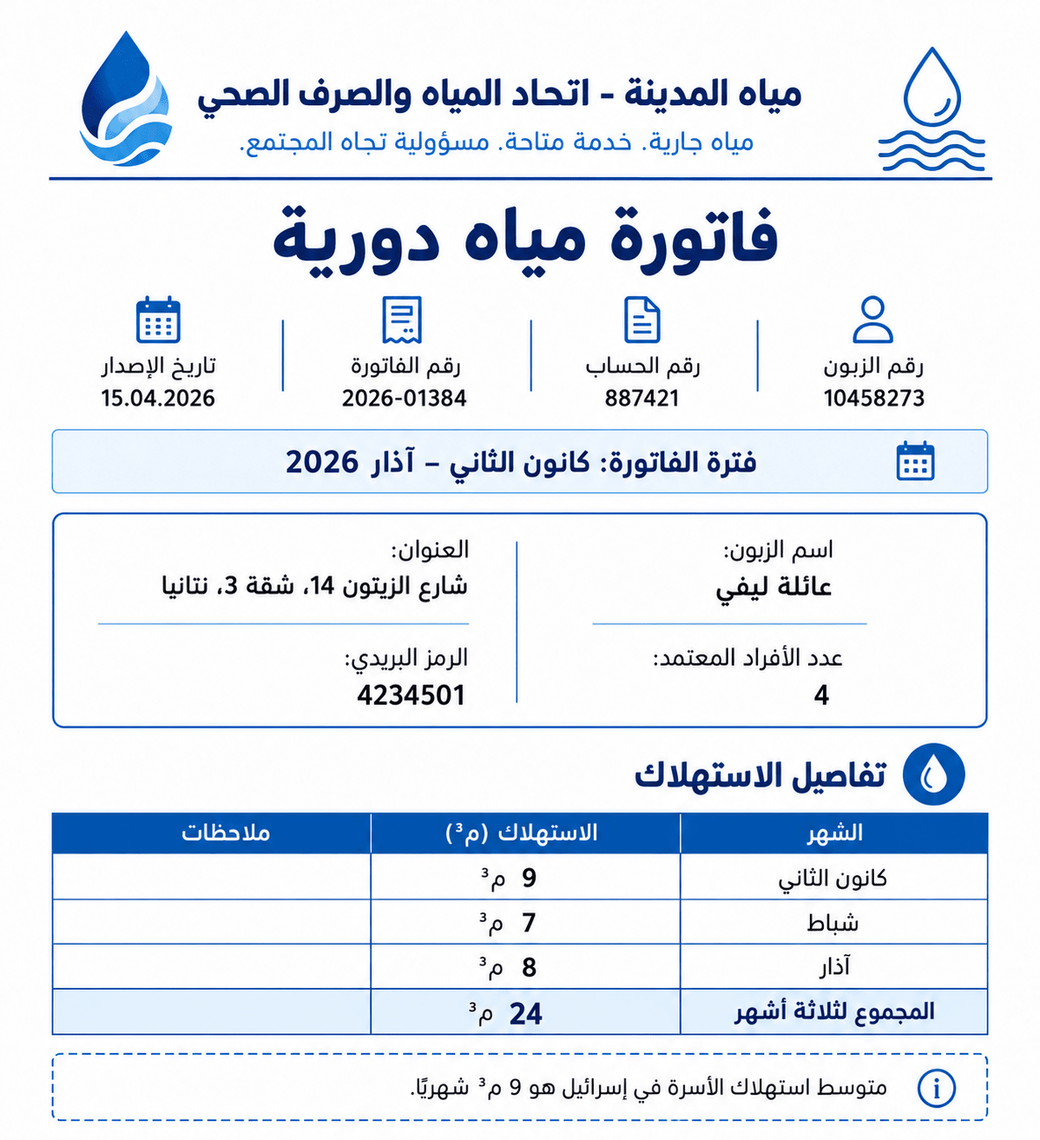
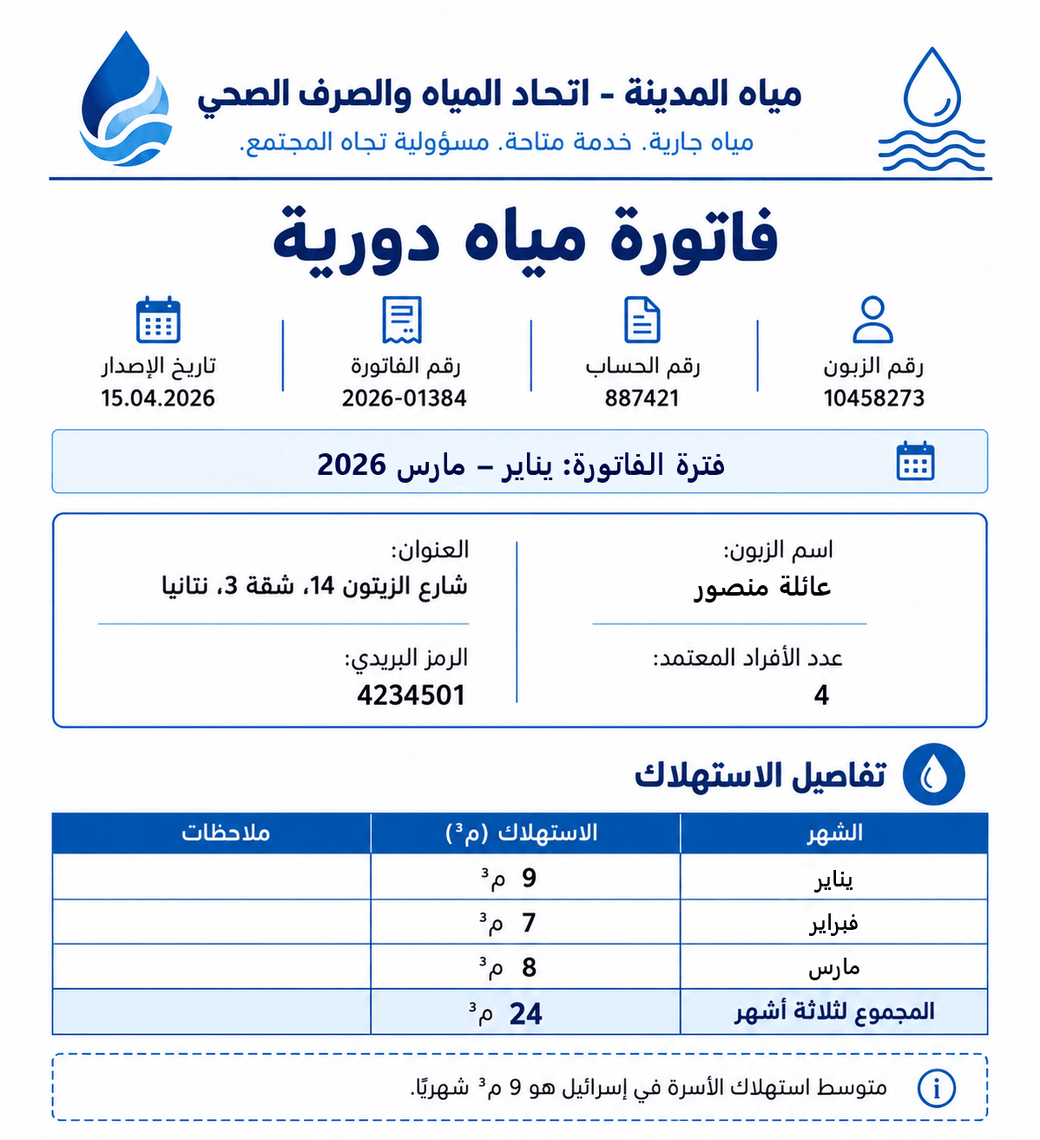
monday 12.11.26: one Kata pattern per question (01-006 q1, 07-001 q2), 01-011 sentences, bill re-lettered; ?v=20261112
- 01-006 q1: a right answer reports the slide's 4 pairs for either right order (مل/سم³ swapped);
  metadata correctAnswers back to the 4 slide pairs (Kata had both alternatives glued into one 6-pair pattern).
- 07-001 q2: a right field reports Kata's form (litres 9000 -> 9,000; month كانون الثاني -> يناير, also
  accepted now); the 4th step "الاستهلاك باللترات (תשובה נוספת)" dropped (Hebrew in the Arabic catalogue).
- 07 bill image: عائلة منصور and يناير/فبراير/مارس, as the question, hotspots, alt text and metadata say
  (MEDIA-CHANGES §11).
- 01-011 q1: questionText and informationToBot carry the three on-screen sentences.
- _test/verify-report.js §6 drives both call sites (fails on the old main.js); kata-patterns.json holds the
  proposed 006 pattern. Kata PATCH waits for נמרוד.

Changed region(s): [[0.278, 0.3747, 0.7412, 0.4372], [0.7412, 0.7494, 0.8648, 0.8743], [0.6795, 0.4996, 0.803, 0.5308]]

diff --git a/_test/verify-report.js b/_test/verify-report.js
@@ -105,7 +105,8 @@ ok('stub', '__reset names no donor unit', !/volume-solid|body-matter|ratio-01|ma
 /* Kata's correctXapiResponsesPattern per questionId (retrieve of 2026-10-25), and the Kata-side errors it still carries */
 const KATA_PATTERNS = fs.existsSync(path.join(REPO, '_test', 'kata-patterns.json')) ? readJson(path.join(REPO, '_test', 'kata-patterns.json')) : {};
 const KATA_KNOWN = {
-  '006/q1': 'Kata lists both alternatives in ONE 6-pair pattern string (01-006, reported 2026-10-25)'
+  /* '006/q1' was here until 2026-11-12: Kata glued both alternatives into ONE 6-pair pattern. The page now reports the slide's
+     4 pairs for either right order (monday 12.11.26); kata-patterns.json carries that pattern — the Kata PATCH waits for נמרוד. */
   /* '004/q1' was here until 2026-10-29: Kata had סמ"ק/מ"ק swapped, 3000 without the comma and mixed ״/" stepIds.
      Fixed by a questions-only PATCH of item 03-004 (נמרוד approved, monday item 13378313536); kata-patterns.json carries the corrected pattern. */
 };
@@ -618,6 +619,50 @@ if (JSDOM) for (const c of Object.keys(SCORE_CONTRACT)) {
     }
     ok(c, 'gate ' + k + '/' + sc.N + ': no console.error', rg.errors.length === 0, rg.errors.slice(0, 2).join(' | '));
   }
+}
+
+/* ══════════════════ 6. one Kata pattern per question (monday 12.11.26) ══════════════════
+   Kata builds ONE correctXapiResponsesPattern from correctAnswers, so a question with two right forms must report one
+   canonical string. 01-006 q1: perfume/die take מ״ל or סמ״ק — a right answer reports the slide's pairs. 07-001 q2: litres
+   9000 or 9,000 (ar: month كانون الثاني or يناير) — a right field reports Kata's form. Driven through the real call sites. */
+section('6. one Kata pattern per question');
+const kataPat = (c, item, k) => { const q = META[c].subContent.find((it) => it.id.replace(/\/$/, '').endsWith('-' + item)).questions.find((x) => x.questionId.endsWith('/' + k)); return KATA_PATTERNS[q.questionId] || []; };
+/* each run is a fresh page that answers one question, so the last `answered` / `answered.last` is that question's */
+const answeredOf = (rec) => { const a = rec.sent.filter((s) => s.verb === 'answered' || s.verb === 'answered.last').pop(); return a && a.result && a.result.response; };
+if (JSDOM) {
+  const swapped = { 's7-d-cc': 's7-t-perfume', 's7-d-ml': 's7-t-dice', 's7-d-l': 's7-t-bucket', 's7-d-m3': 's7-t-truck' };
+  const slide = { 's7-d-ml': 's7-t-perfume', 's7-d-cc': 's7-t-dice', 's7-d-l': 's7-t-bucket', 's7-d-m3': 's7-t-truck' };
+  for (const [tag, place] of [['slide order', slide], ['swapped מ״ל/סמ״ק', swapped]]) {
+    const r = loadPart('01'); const w = r.w; const rec = scRecorder(w, '01');
+    w.goTo(7); w.eval('s7Done = false; s7Attempts = 0; Object.assign(s7Place, ' + JSON.stringify(place) + ')'); w.s7Check();
+    const resp = answeredOf(rec, '006', 'q1'), pat = kataPat('01', '006', 'q1');
+    ok('01', '006/q1 right answer (' + tag + ') = the one Kata pattern', pat.length === 1 && resp === pat[0], resp + ' vs ' + JSON.stringify(pat));
+    ok('01', '006/q1 (' + tag + '): no console.error', r.errors.length === 0, r.errors.slice(0, 2).join(' | '));
+  }
+  { /* a wrong answer still reports what was placed */
+    const r = loadPart('01'); const w = r.w; const rec = scRecorder(w, '01');
+    w.goTo(7); w.eval('s7Done = false; s7Attempts = 0; Object.assign(s7Place, ' + JSON.stringify({ 's7-d-l': 's7-t-perfume', 's7-d-cc': 's7-t-dice', 's7-d-ml': 's7-t-bucket', 's7-d-m3': 's7-t-truck' }) + ')'); w.s7Check();
+    const resp = answeredOf(rec, '006', 'q1') || '';
+    ok('01', '006/q1 a wrong answer reports the placed pairs', resp.includes(w.eval("S7_LABEL['s7-d-l']") + '[.]' + w.eval("S7_NAME['s7-t-perfume']")), resp);
+  }
+  const month = w0 => w0.eval('S3_CORRECT_TEXT.m');
+  const s3Run = (vals) => {
+    const r = loadPart('07'); const w = r.w; const rec = scRecorder(w, '07');
+    w.goTo(3); w.eval("s3Done = false; s3Attempts = 0; s3LastWrong = null");
+    const v = vals(w); for (const k of ['m', 'q', 'l']) w.eval('s3In')(k).value = v[k];
+    w.s3Check();
+    return { r, w, resp: answeredOf(rec, '001', 'q2') };
+  };
+  const pat07 = kataPat('07', '001', 'q2');
+  const cases = [['9,000', (w) => ({ m: month(w), q: '9', l: '9,000' })], ['9000', (w) => ({ m: month(w), q: '9', l: '9000' })]];
+  if (/ar-/.test(UNIT_SLUG)) cases.push(['كانون الثاني', () => ({ m: 'كانون الثاني', q: '9', l: '9000' })]);
+  for (const [tag, vals] of cases) {
+    const { r, resp } = s3Run(vals);
+    ok('07', '001/q2 right answer (' + tag + ') = the one Kata pattern', pat07.length === 1 && resp === pat07[0], resp + ' vs ' + JSON.stringify(pat07));
+    ok('07', '001/q2 (' + tag + '): no console.error', r.errors.length === 0, r.errors.slice(0, 2).join(' | '));
+  }
+  { const { resp } = s3Run((w) => ({ m: month(w), q: '9', l: '900' }));
+    ok('07', '001/q2 a wrong litres value reports the typed text', /\[\.\]900$/.test(resp || ''), resp); }
 }
 
 /* ═══════════════════════════════ summary ═══════════════════════════════ */

diff --git a/methodica-ar-science-mass-liquid-02-01/index.html b/methodica-ar-science-mass-liquid-02-01/index.html
@@ -4,9 +4,9 @@
 <meta charset="UTF-8">
 <meta name="viewport" content="width=device-width, initial-scale=1.0">
 <title>وحدات الحجم واستخداماتها — methodica-ar-science-mass-liquid-02-01</title>
-<link rel="stylesheet" href="css/style.css?v=20261109b">
-<link rel="stylesheet" href="css/motion.css?v=20261109b">
-<link rel="stylesheet" href="../unit-css/25-report.css?v=20261109b">
+<link rel="stylesheet" href="css/style.css?v=20261112">
+<link rel="stylesheet" href="css/motion.css?v=20261112">
+<link rel="stylesheet" href="../unit-css/25-report.css?v=20261112">
 </head>
 <body>
 <!-- ═══ Boot cover (ADDING-REPORTING-AND-RESUME.md §8.11) ═══
@@ -1350,12 +1350,12 @@
 <!-- 720 platform layer (reporting / resume): shared files first, then the part's own scripts
      (js/motion.js before js/main.js, as before), 90-boot last. Same ?v= in every part
      (guide §3.4); 90-boot.js is a separate tag on purpose (§3.2). -->
-<script src="../unit-js/10-identity.js?v=20261109b"></script>
-<script src="../unit-js/20-xapi.js?v=20261109b"></script>
-<script src="../unit-js/25-report.js?v=20261109b"></script>
-<script src="../unit-js/40-resume.js?v=20261109b"></script>
-<script src="../unit-js/50-loader.js?v=20261109b"></script>
-<script src="js/motion.js?v=20261109b"></script>
-<script src="js/main.js?v=20261109b"></script>
-<script src="../unit-js/90-boot.js?v=20261109b"></script></body>
+<script src="../unit-js/10-identity.js?v=20261112"></script>
+<script src="../unit-js/20-xapi.js?v=20261112"></script>
+<script src="../unit-js/25-report.js?v=20261112"></script>
+<script src="../unit-js/40-resume.js?v=20261112"></script>
+<script src="../unit-js/50-loader.js?v=20261112"></script>
+<script src="js/motion.js?v=20261112"></script>
+<script src="js/main.js?v=20261112"></script>
+<script src="../unit-js/90-boot.js?v=20261112"></script></body>
 </html>

diff --git a/methodica-ar-science-mass-liquid-02-07/js/main.js b/methodica-ar-science-mass-liquid-02-07/js/main.js
@@ -558,8 +558,10 @@ function s3Num(raw) {
 }
 /* The month: trimmed, inner spaces collapsed, Hebrew geresh/gershayim ignored. */
 const s3Word = raw => raw.trim().replace(/\s+/g, ' ').replace(/["\u05f3\u05f4']/g, '');
+/* The Levantine name of January is right too: the bill used to print كانون الثاني (monday 12.11.26, AR 07-001). */
+const S3_MONTH_ALSO = ['كانون الثاني'];
 function s3FieldRight(k) {
-  if (k === 'm') return s3Word(s3In(k).value) === S3Q.correct.m;
+  if (k === 'm') { const w = s3Word(s3In(k).value); return w === S3Q.correct.m || S3_MONTH_ALSO.includes(w); }
   return s3Num(s3In(k).value) === S3Q.correct[k];
 }
 /* Retry-gate signature: the month as a word, the numbers parsed (raw text while one does not parse). */
@@ -619,9 +621,11 @@ function s3Check() {
   s3Attempts++;
   const right = {};
   S3_KEYS.forEach(k => { right[k] = s3FieldRight(k); });
-  /* xAPI: performance — after the field loop (right is final only then); the raw typed text of the three fields, in the metadata steps order (month, m³, litres) (guide §6.3). */
+  /* xAPI: performance — after the field loop (right is final only then); the three fields in the metadata steps order (month, m³, litres) (guide §6.3).
+     A right field reports Kata's form (S3_CORRECT_TEXT: 9000 and 9,000 both → "9,000", كانون الثاني → "يناير", guide §6.3c
+     rule 6) — Kata holds ONE 3-step pattern (monday 12.11.26, 07-001 q2). A wrong field reports the raw typed text. */
   xapiAnswered('001', 'q2', S3_KEYS.every(k => right[k]), S3_KEYS.every(k => right[k]) || s3Attempts >= S3Q.maxAttempts,
-    { steps: S3_KEYS.map(k => s3In(k).value) });
+    { steps: S3_KEYS.map(k => right[k] ? S3_CORRECT_TEXT[k] : s3In(k).value) });
   if (S3_KEYS.every(k => right[k])) { s3Finish('correct'); return; }
   if (s3Attempts >= S3Q.maxAttempts) {
     s3Answer = {};

diff --git a/methodica-ar-science-mass-liquid-02-02/index.html b/methodica-ar-science-mass-liquid-02-02/index.html
@@ -4,9 +4,9 @@
 <meta charset="UTF-8">
 <meta name="viewport" content="width=device-width, initial-scale=1.0">
 <title>تدريب معياري — methodica-ar-science-mass-liquid-02-02</title>
-<link rel="stylesheet" href="css/style.css?v=20261109b">
-<link rel="stylesheet" href="css/motion.css?v=20261109b">
-<link rel="stylesheet" href="../unit-css/25-report.css?v=20261109b">
+<link rel="stylesheet" href="css/style.css?v=20261112">
+<link rel="stylesheet" href="css/motion.css?v=20261112">
+<link rel="stylesheet" href="../unit-css/25-report.css?v=20261112">
 </head>
 <body>
 <!-- ═══ Boot cover (ADDING-REPORTING-AND-RESUME.md §8.11) ═══
@@ -755,12 +755,12 @@
 <!-- 720 platform layer (reporting / resume): shared files first, then the part's own scripts
      (js/motion.js before js/main.js, as before), 90-boot last. Same ?v= in every part
      (guide §3.4); 90-boot.js is a separate tag on purpose (§3.2). -->
-<script src="../unit-js/10-identity.js?v=20261109b"></script>
-<script src="../unit-js/20-xapi.js?v=20261109b"></script>
-<script src="../unit-js/25-report.js?v=20261109b"></script>
-<script src="../unit-js/40-resume.js?v=20261109b"></script>
-<script src="../unit-js/50-loader.js?v=20261109b"></script>
-<script src="js/motion.js?v=20261109b"></script>
-<script src="js/main.js?v=20261109b"></script>
-<script src="../unit-js/90-boot.js?v=20261109b"></script></body>
+<script src="../unit-js/10-identity.js?v=20261112"></script>
+<script src="../unit-js/20-xapi.js?v=20261112"></script>
+<script src="../unit-js/25-report.js?v=20261112"></script>
+<script src="../unit-js/40-resume.js?v=20261112"></script>
+<script src="../unit-js/50-loader.js?v=20261112"></script>
+<script src="js/motion.js?v=20261112"></script>
+<script src="js/main.js?v=20261112"></script>
+<script src="../unit-js/90-boot.js?v=20261112"></script></body>
 </html>

diff --git a/methodica-ar-science-mass-liquid-02-03/index.html b/methodica-ar-science-mass-liquid-02-03/index.html
@@ -4,9 +4,9 @@
 <meta charset="UTF-8">
 <meta name="viewport" content="width=device-width, initial-scale=1.0">
 <title>تدريب أساسي — methodica-ar-science-mass-liquid-02-03</title>
-<link rel="stylesheet" href="css/style.css?v=20261109b">
-<link rel="stylesheet" href="css/motion.css?v=20261109b">
-<link rel="stylesheet" href="../unit-css/25-report.css?v=20261109b">
+<link rel="stylesheet" href="css/style.css?v=20261112">
+<link rel="stylesheet" href="css/motion.css?v=20261112">
+<link rel="stylesheet" href="../unit-css/25-report.css?v=20261112">
 </head>
 <body>
 <!-- ═══ Boot cover (ADDING-REPORTING-AND-RESUME.md §8.11) ═══
@@ -615,12 +615,12 @@
 <!-- 720 platform layer (reporting / resume): shared files first, then the part's own scripts
      (js/motion.js before js/main.js, as before), 90-boot last. Same ?v= in every part
      (guide §3.4); 90-boot.js is a separate tag on purpose (§3.2). -->
-<script src="../unit-js/10-identity.js?v=20261109b"></script>
-<script src="../unit-js/20-xapi.js?v=20261109b"></script>
-<script src="../unit-js/25-report.js?v=20261109b"></script>
-<script src="../unit-js/40-resume.js?v=20261109b"></script>
-<script src="../unit-js/50-loader.js?v=20261109b"></script>
-<script src="js/motion.js?v=20261109b"></script>
-<script src="js/main.js?v=20261109b"></script>
-<script src="../unit-js/90-boot.js?v=20261109b"></script></body>
+<script src="../unit-js/10-identity.js?v=20261112"></script>
+<script src="../unit-js/20-xapi.js?v=20261112"></script>
+<script src="../unit-js/25-report.js?v=20261112"></script>
+<script src="../unit-js/40-resume.js?v=20261112"></script>
+<script src="../unit-js/50-loader.js?v=20261112"></script>
+<script src="js/motion.js?v=20261112"></script>
+<script src="js/main.js?v=20261112"></script>
+<script src="../unit-js/90-boot.js?v=20261112"></script></body>
 </html>

diff --git a/methodica-ar-science-mass-liquid-02-05/index.html b/methodica-ar-science-mass-liquid-02-05/index.html
@@ -4,9 +4,9 @@
 <meta charset="UTF-8">
 <meta name="viewport" content="width=device-width, initial-scale=1.0">
 <title>تدريب متقدم — methodica-ar-science-mass-liquid-02-05</title>
-<link rel="stylesheet" href="css/style.css?v=20261109b">
-<link rel="stylesheet" href="css/motion.css?v=20261109b">
-<link rel="stylesheet" href="../unit-css/25-report.css?v=20261109b">
+<link rel="stylesheet" href="css/style.css?v=20261112">
+<link rel="stylesheet" href="css/motion.css?v=20261112">
+<link rel="stylesheet" href="../unit-css/25-report.css?v=20261112">
 </head>
 <body>
 <!-- ═══ Boot cover (ADDING-REPORTING-AND-RESUME.md §8.11) ═══
@@ -638,12 +638,12 @@
 <!-- 720 platform layer (reporting / resume): shared files first, then the part's own scripts
      (js/motion.js before js/main.js, as before), 90-boot last. Same ?v= in every part
      (guide §3.4); 90-boot.js is a separate tag on purpose (§3.2). -->
-<script src="../unit-js/10-identity.js?v=20261109b"></script>
-<script src="../unit-js/20-xapi.js?v=20261109b"></script>
-<script src="../unit-js/25-report.js?v=20261109b"></script>
-<script src="../unit-js/40-resume.js?v=20261109b"></script>
-<script src="../unit-js/50-loader.js?v=20261109b"></script>
-<script src="js/motion.js?v=20261109b"></script>
-<script src="js/main.js?v=20261109b"></script>
-<script src="../unit-js/90-boot.js?v=20261109b"></script></body>
+<script src="../unit-js/10-identity.js?v=20261112"></script>
+<script src="../unit-js/20-xapi.js?v=20261112"></script>
+<script src="../unit-js/25-report.js?v=20261112"></script>
+<script src="../unit-js/40-resume.js?v=20261112"></script>
+<script src="../unit-js/50-loader.js?v=20261112"></script>
+<script src="js/motion.js?v=20261112"></script>
+<script src="js/main.js?v=20261112"></script>
+<script src="../unit-js/90-boot.js?v=20261112"></script></body>
 </html>

diff --git a/methodica-ar-science-mass-liquid-02-06/index.html b/methodica-ar-science-mass-liquid-02-06/index.html
@@ -4,9 +4,9 @@
 <meta charset="UTF-8">
 <meta name="viewport" content="width=device-width, initial-scale=1.0">
 <title>سؤال الذروة — methodica-ar-science-mass-liquid-02-06</title>
-<link rel="stylesheet" href="css/style.css?v=20261109b">
-<link rel="stylesheet" href="css/motion.css?v=20261109b">
-<link rel="stylesheet" href="../unit-css/25-report.css?v=20261109b">
+<link rel="stylesheet" href="css/style.css?v=20261112">
+<link rel="stylesheet" href="css/motion.css?v=20261112">
+<link rel="stylesheet" href="../unit-css/25-report.css?v=20261112">
 </head>
 <body>
 <!-- ═══ Boot cover (ADDING-REPORTING-AND-RESUME.md §8.11) ═══
@@ -674,12 +674,12 @@
 <!-- 720 platform layer (reporting / resume): shared files first, then the part's own scripts
      (js/motion.js before js/main.js, as before), 90-boot last. Same ?v= in every part
      (guide §3.4); 90-boot.js is a separate tag on purpose (§3.2). -->
-<script src="../unit-js/10-identity.js?v=20261109b"></script>
-<script src="../unit-js/20-xapi.js?v=20261109b"></script>
-<script src="../unit-js/25-report.js?v=20261109b"></script>
-<script src="../unit-js/40-resume.js?v=20261109b"></script>
-<script src="../unit-js/50-loader.js?v=20261109b"></script>
-<script src="js/motion.js?v=20261109b"></script>
-<script src="js/main.js?v=20261109b"></script>
-<script src="../unit-js/90-boot.js?v=20261109b"></script></body>
+<script src="../unit-js/10-identity.js?v=20261112"></script>
+<script src="../unit-js/20-xapi.js?v=20261112"></script>
+<script src="../unit-js/25-report.js?v=20261112"></script>
+<script src="../unit-js/40-resume.js?v=20261112"></script>
+<script src="../unit-js/50-loader.js?v=20261112"></script>
+<script src="js/motion.js?v=20261112"></script>
+<script src="js/main.js?v=20261112"></script>
+<script src="../unit-js/90-boot.js?v=20261112"></script></body>
 </html>

diff --git a/methodica-ar-science-mass-liquid-02-07/index.html b/methodica-ar-science-mass-liquid-02-07/index.html
@@ -4,9 +4,9 @@
 <meta charset="UTF-8">
 <meta name="viewport" content="width=device-width, initial-scale=1.0">
 <title>سؤال الذروة — methodica-ar-science-mass-liquid-02-07</title>
-<link rel="stylesheet" href="css/style.css?v=20261109b">
-<link rel="stylesheet" href="css/motion.css?v=20261109b">
-<link rel="stylesheet" href="../unit-css/25-report.css?v=20261109b">
+<link rel="stylesheet" href="css/style.css?v=20261112">
+<link rel="stylesheet" href="css/motion.css?v=20261112">
+<link rel="stylesheet" href="../unit-css/25-report.css?v=20261112">
 </head>
 <body>
 <!-- ═══ Boot cover (ADDING-REPORTING-AND-RESUME.md §8.11) ═══
@@ -517,12 +517,12 @@
 <!-- 720 platform layer (reporting / resume): shared files first, then the part's own scripts
      (js/motion.js before js/main.js, as before), 90-boot last. Same ?v= in every part
      (guide §3.4); 90-boot.js is a separate tag on purpose (§3.2). -->
-<script src="../unit-js/10-identity.js?v=20261109b"></script>
-<script src="../unit-js/20-xapi.js?v=20261109b"></script>
-<script src="../unit-js/25-report.js?v=20261109b"></script>
-<script src="../unit-js/40-resume.js?v=20261109b"></script>
-<script src="../unit-js/50-loader.js?v=20261109b"></script>
-<script src="js/motion.js?v=20261109b"></script>
-<script src="js/main.js?v=20261109b"></script>
-<script src="../unit-js/90-boot.js?v=20261109b"></script></body>
+<script src="../unit-js/10-identity.js?v=20261112"></script>
+<script src="../unit-js/20-xapi.js?v=20261112"></script>
+<script src="../unit-js/25-report.js?v=20261112"></script>
+<script src="../unit-js/40-resume.js?v=20261112"></script>
+<script src="../unit-js/50-loader.js?v=20261112"></script>
+<script src="js/motion.js?v=20261112"></script>
+<script src="js/main.js?v=20261112"></script>
+<script src="../unit-js/90-boot.js?v=20261112"></script></body>
 </html>

diff --git a/methodica-ar-science-mass-liquid-02-04/index.html b/methodica-ar-science-mass-liquid-02-04/index.html
@@ -4,9 +4,9 @@
 <meta charset="UTF-8">
 <meta name="viewport" content="width=device-width, initial-scale=1.0">
 <title>methodica-ar-science-mass-liquid-02-04</title>
-<link rel="stylesheet" href="css/style.css?v=20261109b">
-<link rel="stylesheet" href="css/motion.css?v=20261109b">
-<link rel="stylesheet" href="../unit-css/25-report.css?v=20261109b">
+<link rel="stylesheet" href="css/style.css?v=20261112">
+<link rel="stylesheet" href="css/motion.css?v=20261112">
+<link rel="stylesheet" href="../unit-css/25-report.css?v=20261112">
 </head>
 <body>
 <!-- ═══ Boot cover (ADDING-REPORTING-AND-RESUME.md §8.11) ═══
@@ -241,12 +241,12 @@
 <!-- 720 platform layer (reporting / resume): shared files first, then the part's own scripts
      (js/motion.js before js/main.js, as before), 90-boot last. Same ?v= in every part
      (guide §3.4); 90-boot.js is a separate tag on purpose (§3.2). -->
-<script src="../unit-js/10-identity.js?v=20261109b"></script>
-<script src="../unit-js/20-xapi.js?v=20261109b"></script>
-<script src="../unit-js/25-report.js?v=20261109b"></script>
-<script src="../unit-js/40-resume.js?v=20261109b"></script>
-<script src="../unit-js/50-loader.js?v=20261109b"></script>
-<script src="js/motion.js?v=20261109b"></script>
-<script src="js/main.js?v=20261109b"></script>
-<script src="../unit-js/90-boot.js?v=20261109b"></script></body>
+<script src="../unit-js/10-identity.js?v=20261112"></script>
+<script src="../unit-js/20-xapi.js?v=20261112"></script>
+<script src="../unit-js/25-report.js?v=20261112"></script>
+<script src="../unit-js/40-resume.js?v=20261112"></script>
+<script src="../unit-js/50-loader.js?v=20261112"></script>
+<script src="js/motion.js?v=20261112"></script>
+<script src="js/main.js?v=20261112"></script>
+<script src="../unit-js/90-boot.js?v=20261112"></script></body>
 </html>

diff --git a/methodica-ar-science-mass-liquid-02-01/js/main.js b/methodica-ar-science-mass-liquid-02-01/js/main.js
@@ -1082,8 +1082,11 @@ function s7Check() {
   s7Attempts++;
   const marks = s7MarksFor(s7Place);
   const allCorrect = Object.values(marks).every(v => v === 'correct');
-  /* xAPI: item 006 q1 (matching) — source = the unit chip, target = the product zone (metadata answers.source / answers.target) */
-  xapiAnswered('006', 'q1', allCorrect, allCorrect || s7Attempts >= S7Q.maxAttempts, { pairs: s7Targets().map(t => ({ source: S7_LABEL[s7In(t)], target: S7_NAME[t] })) });
+  /* xAPI: item 006 q1 (matching) — source = the unit chip, target = the product zone (metadata answers.source / answers.target).
+     A right answer reports the slide's pairs (S7Q.reveal) even when the learner swapped مل and سم³ (1 مل = 1 سم³, both
+     accepted): Kata holds ONE pattern, built from correctAnswers (monday 12.11.26, 01-006). Wrong answers report as placed. */
+  const s7Reported = t => allCorrect ? S7Q.reveal[t] : s7In(t);
+  xapiAnswered('006', 'q1', allCorrect, allCorrect || s7Attempts >= S7Q.maxAttempts, { pairs: s7Targets().map(t => ({ source: S7_LABEL[s7Reported(t)], target: S7_NAME[t] })) });
   if (allCorrect) {
     s7Marks = marks; s7Finish('correct');
   } else if (s7Attempts >= S7Q.maxAttempts) {

diff --git a/MEDIA-CHANGES.md b/MEDIA-CHANGES.md
@@ -314,3 +314,18 @@ The Arabic unit sets every font to `Calibri, Arial, sans-serif`, and the Assista
 | 186 | remove | `unit-assets/fonts/assistant-bold.ttf` | — | 49,752 | 0 | unreferenced (Arabic uses Calibri) | verify-assets |
 | 187 | remove | `unit-assets/fonts/assistant-regular.ttf` | — | 49,792 | 0 | unreferenced (Arabic uses Calibri) | verify-assets |
 | 188 | remove | `unit-assets/fonts/assistant-semibold.ttf` | — | 49,804 | 0 | unreferenced (Arabic uses Calibri) | verify-assets |
+
+## 11. Arabic water bill re-lettered (Arabic unit, 2026-11-12) — 1 file, content change
+
+Monday 12.11.26 (AR 07-001, items "high" and "medium"): the bill printed the Levantine month names (كانون الثاني / شباط /
+آذار) and the customer عائلة ليفي. The question, the hotspot labels, the alt text, the player and the metadata say
+يناير / فبراير / مارس and عائلة منصور. Only those text runs changed: the billing period line (re-set whole, centred as
+before), the customer name (right edge kept at x 957) and the three month cells (centred in the cell). Shaping: GDI+
+(Uniscribe), Segoe UI Bold for the period and the name, Segoe UI Semibold for the months, with the size calibrated on
+the old text's ink. Each old run was erased with background pixels sampled from its own row, and the patch was mapped to
+the file's own 155-colour palette (exact nearest entry, no dither). The palette, the dimensions and every other pixel
+are unchanged. Script and before/after: `../../_bill-fix/` (outside the repo). The `?v=` bump of 2026-11-12 busts the cache.
+
+| # | op | path | new path | before | after | before (WxH mode) | after (WxH mode) | display box (design px) | tool + parameters | verified |
+|---|---|---|---|---|---|---|---|---|---|---|
+| 189 | re-letter | `methodica-ar-science-mass-liquid-02-07/assets/img/s2-water-bill-levi.png` | `methodica-ar-science-mass-liquid-02-07/assets/img/s2-water-bill-levi.png` | 576,211 | 570,062 | 1198x1313 P | 1198x1313 P | 740x811 | `_bill-fix/compose.py` + `render.ps1` (GDI+); oxipng -o4 --strip safe | before/after at 100% and at ×10 contrast; verify-assets |

diff --git a/docs-and-tools/REPORT-XAPI.md b/docs-and-tools/REPORT-XAPI.md
@@ -22,6 +22,11 @@ from volume-solid-01 (its `__reset` clears the right keys). Two changes of our o
   `correctAnswers` order**, the order Kata builds `correctXapiResponsesPattern` in; wrong pairs follow
   in source, target order. `_test/kata-patterns.json` holds Kata's patterns and the harness (H14)
   checks every right answer against them.
+- **One Kata pattern per question** (monday 12.11.26). Kata builds ONE `correctXapiResponsesPattern` from
+  `correctAnswers`, so a question with two right forms reports one canonical string: 01-006 q1 (perfume / die take
+  either ml or cc) reports the slide's 4 pairs for either right order; 07-001 q2 reports a right field in Kata's
+  form (`S3_CORRECT_TEXT`: litres `9000` → `9,000`; ar month `كانون الثاني` → `يناير`). Wrong answers report what
+  the learner gave. `_test/verify-report.js` §6 drives both call sites.
 - `sendStatementOnce` marks nothing when there is no sender (`sendStatement720` undefined) — the
   ledger must never claim a statement that never left.
 
